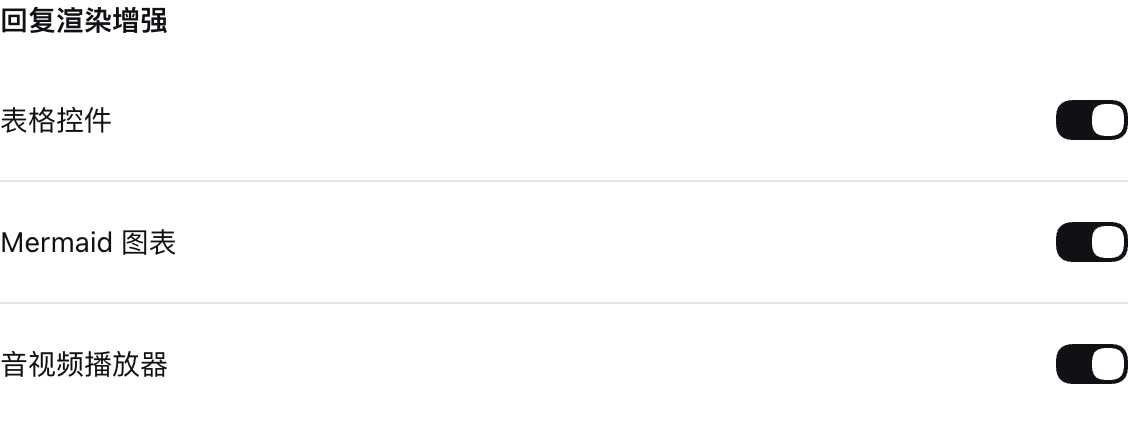
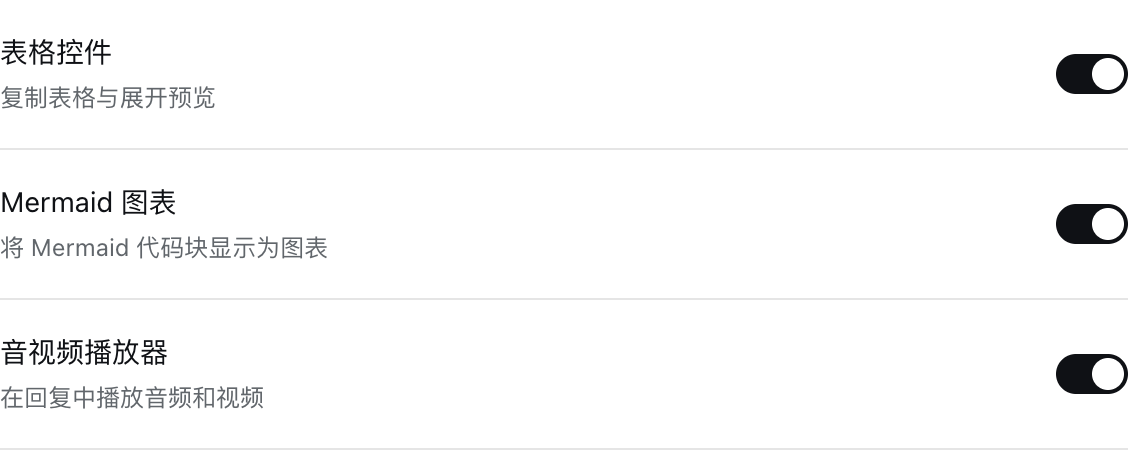
fix: 统一回复渲染组件与 DSH 原生样式
设置项采用默认行布局和原生 Switch，工具栏与预览复用 Button、Tooltip、图标及 Modal。

简化图表与媒体卡片，支持外观切换，并更新真实截图与宿主校验。

diff --git a/src/styles.css b/src/styles.css
@@ -1,4 +1,61 @@
-.dcr-source{min-width:0}.dcr-native-hidden{display:none!important}.dcr-source .dcr-table-owner{position:relative;padding-top:28px}.dcr-source .dcr-table-owner>table{width:100%;font-variant-numeric:tabular-nums}.dcr-source .dcr-table-owner th,.dcr-source .dcr-table-owner td{padding:10px 24px 10px 0;border-bottom:1px solid var(--dsw-alias-border-l2, #e6e6e8);text-align:start}.dcr-source .dcr-table-owner th{font-weight:600}.dcr-table-tools{position:absolute;right:0;top:0;display:flex;gap:4px;opacity:0;transition:opacity .15s ease}.dcr-table-owner:hover .dcr-table-tools,.dcr-table-owner:focus-within .dcr-table-tools{opacity:1}.dcr-action{position:relative;border:0;background:transparent;color:var(--dsw-alias-label-secondary,#85878a);width:32px;height:32px;display:inline-flex;align-items:center;justify-content:center;border-radius:50%;cursor:pointer;padding:0;transition:background .15s ease,color .15s ease}.dcr-action:hover{background:var(--dsw-alias-interactive-bg-hover,#f0f0f1);color:var(--dsw-alias-label-primary,#212225)}.dcr-action:disabled{opacity:.35;cursor:default}.dcr-action:focus-visible,.dcr-play:focus-visible{outline:2px solid #3478fa;outline-offset:2px}.dcr-actions{display:flex;gap:4px;align-items:center}.dcr-dialog{background:var(--dsw-alias-bg-layer-2,#fff);color:var(--dsw-alias-label-primary,#212225);border:1px solid var(--dsw-alias-border-l2,#ddd);border-radius:16px;width:min(1000px,86vw);max-width:94vw;max-height:88vh;padding:22px;box-shadow:0 20px 60px #0003;overflow:hidden;animation:dcr-open .18s cubic-bezier(.2,.8,.2,1)}.dcr-dialog::backdrop{background:#0003;animation:dcr-fade .18s ease}.dcr-dialog.dcr-closing{animation:dcr-close .16s ease forwards}.dcr-dialog.dcr-closing::backdrop{animation:dcr-fade .16s ease reverse forwards}.dcr-dialog>header,.dcr-mermaid>header,.dcr-media>header{display:flex;align-items:center;justify-content:space-between;gap:12px}.dcr-dialog>header{font:600 14px/24px -apple-system,BlinkMacSystemFont,sans-serif;padding-bottom:14px}.dcr-dialog-body{max-height:calc(88vh - 110px);overflow:auto;overscroll-behavior:contain}.dcr-preview-table{width:max-content;min-width:100%;border-collapse:collapse;font-size:14px;line-height:24px}.dcr-preview-table td,.dcr-preview-table th{padding:10px 28px 10px 0;border-bottom:1px solid var(--dsw-alias-border-l2,#ddd);vertical-align:top;white-space:normal;min-width:120px}.dcr-preview-table th{position:sticky;top:0;background:var(--dsw-alias-bg-layer-2,#fff);font-weight:600;z-index:1;text-align:start}.dcr-preview-table button{cursor:pointer}.dcr-mermaid{border:1px solid var(--dsw-alias-border-l2,#e1e1e4);border-radius:12px;overflow:hidden;margin:8px 0;background:var(--dsw-alias-bg-layer-2,#fff);color:var(--dsw-alias-label-primary,#222)}.dcr-mermaid>header{padding:9px 12px 9px 16px;color:var(--dsw-alias-label-secondary,#73767b);font-size:12px;border-bottom:1px solid var(--dsw-alias-border-l2,#e7e7e9)}.dcr-render-work{position:absolute;left:-100000px;top:0;pointer-events:none;visibility:hidden}.dcr-diagram{display:flex;justify-content:center;align-items:center;padding:24px;overflow:auto;min-height:130px}.dcr-diagram svg{max-width:100%;height:auto}.dcr-diagram-expanded svg{max-width:none;min-width:600px}.dcr-mermaid pre{background:var(--dsw-alias-interactive-bg-hover,#f7f7f8);padding:16px;margin:0;font:12px/22px ui-monospace,SFMono-Regular,monospace;white-space:pre-wrap}.dcr-zoom{font-size:12px;color:var(--dsw-alias-label-secondary,#888);min-width:44px;text-align:center}.dcr-status{padding:12px 16px;margin:0;font-size:12px;line-height:20px;color:var(--dsw-alias-label-secondary,#73767b)}.dcr-media{width:100%;max-width:512px;border:1px solid var(--dsw-alias-border-l2,#e1e1e4);border-radius:16px;padding:16px;margin:12px 0;background:var(--dsw-alias-bg-layer-2,#fff);color:var(--dsw-alias-label-primary,#222);font:14px/22px -apple-system,BlinkMacSystemFont,sans-serif}.dcr-media header strong{display:block;font-size:13px;font-weight:500;overflow-wrap:anywhere}.dcr-media small{display:block;font-size:11px;color:var(--dsw-alias-label-secondary,#85878a)}.dcr-audio-controls{display:flex;align-items:center;gap:12px;margin:15px 0 8px}.dcr-play{width:34px;height:34px;flex:0 0 34px;background:var(--dsw-alias-label-primary,#202124);color:var(--dsw-alias-bg-layer-2,#fff);border:0;border-radius:50%;display:flex;align-items:center;justify-content:center;cursor:pointer}.dcr-audio-controls input{accent-color:var(--dsw-alias-label-primary,#222);min-width:30px;flex:1;cursor:pointer;height:4px}.dcr-audio-controls input:disabled{cursor:default;opacity:.45}.dcr-time{color:var(--dsw-alias-label-secondary,#85878a);font-size:11px;font-variant-numeric:tabular-nums;white-space:nowrap}.dcr-media-original{font-size:11px!important;color:var(--dsw-alias-label-secondary,#85878a)!important;text-decoration:none!important;cursor:pointer}.dcr-media-original:hover{text-decoration:underline!important}.dcr-media video{display:block;width:100%;max-height:420px;border-radius:8px;background:#17181b;margin:14px 0 9px}.dcr-settings{margin:24px 0;color:var(--dsw-alias-label-primary,#222)}.dcr-settings h3{font-size:14px;font-weight:600;margin:0 0 10px}.dcr-setting-row{display:flex;justify-content:space-between;align-items:center;min-height:60px;border-bottom:1px solid var(--dsw-alias-border-l2,#e8e8eb);font-size:14px}.dcr-setting-row:last-of-type{border:0}.dcr-switch{width:36px;height:20px;border:0;padding:2px;border-radius:12px;cursor:pointer;background:#bdbec3;transition:background .15s ease}.dcr-switch[aria-checked=true]{background:var(--dsw-alias-label-primary,#151619)}.dcr-switch>span{display:block;width:16px;height:16px;border-radius:50%;background:var(--dsw-alias-bg-layer-2,#fff);transition:transform .15s ease}.dcr-switch[aria-checked=true]>span{transform:translateX(16px)}.dcr-settings-error{font-size:12px;color:#b33}@keyframes dcr-open{from{opacity:0;transform:translateY(5px) scale(.98)}to{opacity:1;transform:none}}@keyframes dcr-close{to{opacity:0;transform:translateY(4px) scale(.98)}}@keyframes dcr-fade{from{opacity:0}to{opacity:1}}@media(hover:none){.dcr-table-tools{opacity:1}}@media(prefers-reduced-motion:reduce){.dcr-dialog,.dcr-dialog::backdrop,.dcr-action,.dcr-table-tools,.dcr-switch,.dcr-switch>span{animation:none!important;transition:none!important}}
+/* Reply content stays in DSH's native Markdown layout. */
+.dcr-source { min-width: 0; }
+.dcr-native-hidden { display: none !important; }
+.dcr-table-owner { position: relative; padding-top: 24px; }
+.dcr-table-tools { position: absolute; top: 0; right: 0; display: flex; gap: 2px; opacity: 0; transition: opacity var(--ds-transition-duration, 150ms); }
+.dcr-table-owner:hover .dcr-table-tools,
+.dcr-table-owner:focus-within .dcr-table-tools { opacity: 1; }
+.dcr-action { width: 28px; min-width: 28px; padding: 0; flex: none; color: var(--dsw-alias-label-secondary); }
+.dcr-actions { display: flex; align-items: center; gap: 2px; flex: none; }
 
-.dcr-action::after{content:attr(aria-label);position:absolute;bottom:calc(100% + 6px);left:50%;transform:translateX(-50%);background:#202123;color:#fff;border-radius:8px;padding:5px 9px;font:12px/18px -apple-system,BlinkMacSystemFont,sans-serif;white-space:nowrap;pointer-events:none;opacity:0;transition:opacity .12s ease;z-index:4;box-shadow:0 4px 16px #0002}.dcr-action:hover::after,.dcr-action:focus-visible::after{opacity:1;transition-delay:.4s}.dcr-action:disabled::after{display:none}@media(hover:none){.dcr-action::after{display:none}}
-.dcr-source .dcr-table-owner [align=center],.dcr-preview-table [align=center]{text-align:center}.dcr-source .dcr-table-owner [align=right],.dcr-preview-table [align=right]{text-align:right}
+/* Only size the native Modal; its chrome, mask and focus handling remain native. */
+.dcr-dialog { width: min(960px, calc(100vw - 48px)); max-height: 100%; }
+.dcr-preview-actions { position: absolute; top: 22px; right: 48px; }
+.dcr-dialog-body { min-height: 0; max-height: min(70vh, 680px); overflow: auto; overscroll-behavior: contain; }
+.dcr-dialog.dcr-closing { animation: dcr-close 160ms var(--ds-ease-in-out, ease) forwards; }
+.dcr-preview-table { width: max-content; min-width: 100%; border-collapse: collapse; font: var(--dsw-font-markdown-body, 14px/24px var(--dsw-font-family)); }
+.dcr-preview-table th,
+.dcr-preview-table td { padding: 10px 24px 10px 0; border-bottom: .5px solid var(--dsw-alias-border-l2); vertical-align: top; }
+.dcr-preview-table th { position: sticky; top: 0; z-index: 1; background: var(--dsw-alias-bg-layer-2); font-weight: 500; text-align: start; }
+.dcr-preview-table [align=center] { text-align: center; }
+.dcr-preview-table [align=right] { text-align: right; }
+.dcr-preview-table button { cursor: pointer; }
+
+/* Graphs and media use the same quiet surface as DSH's code cards. */
+.dcr-mermaid,
+.dcr-media { border: 0; border-radius: var(--dsw-radius-lg, 12px); background: var(--dsw-alias-markdown-code-block); color: var(--dsw-alias-label-primary); font-family: var(--dsw-font-family); }
+.dcr-mermaid { margin: 8px 0; overflow: hidden; }
+.dcr-mermaid > header,
+.dcr-media > header { display: flex; align-items: center; justify-content: space-between; gap: 12px; }
+.dcr-mermaid > header { padding: 8px 12px 4px 18px; color: var(--dsw-alias-label-tertiary); font: 11px/18px var(--dsw-font-family); }
+.dcr-render-work { position: absolute; left: -100000px; top: 0; visibility: hidden; pointer-events: none; }
+.dcr-diagram { display: flex; align-items: center; justify-content: center; padding: 16px 20px 20px; overflow: auto; min-height: 100px; }
+.dcr-diagram .node rect,
+.dcr-diagram .node polygon { filter: none !important; }
+.dcr-diagram .node rect { rx: 6px; ry: 6px; }
+.dcr-diagram svg { max-width: 100%; max-height: 340px; width: auto; height: auto; }
+.dcr-diagram-expanded { padding: 16px 0; }
+.dcr-diagram-expanded svg { max-height: none; }
+.dcr-mermaid pre { margin: 0; padding: 8px 20px 20px; font: var(--dsw-font-markdown-code-block); white-space: pre-wrap; }
+.dcr-zoom { min-width: 40px; text-align: center; color: var(--dsw-alias-label-secondary); font: 11px/18px var(--dsw-font-family); }
+.dcr-status { margin: 0; padding: 8px 0; color: var(--dsw-alias-label-secondary); font: 12px/18px var(--dsw-font-family); }
+.dcr-mermaid .dcr-status { padding: 12px 20px; }
+.dcr-media { width: 100%; max-width: 512px; padding: 14px 16px; margin: 12px 0; }
+.dcr-media-name { min-width: 0; }
+.dcr-media-name > span { display: block; overflow-wrap: anywhere; font: 14px/20px var(--dsw-font-family); }
+.dcr-media-name > small { display: block; margin-top: 2px; color: var(--dsw-alias-label-tertiary); font: 11px/18px var(--dsw-font-family); }
+.dcr-audio-controls { display: flex; align-items: center; gap: 10px; margin-top: 8px; }
+.dcr-time { color: var(--dsw-alias-label-secondary); font: 11px/18px var(--dsw-font-family); font-variant-numeric: tabular-nums; white-space: nowrap; }
+.dcr-audio-controls input { appearance: none; flex: 1; min-width: 30px; height: 4px; margin: 0; border: 0; border-radius: var(--dsw-radius-pill, 999px); background: linear-gradient(to right, var(--dsw-alias-state-business-primary) var(--dcr-progress), var(--dsw-alias-border-l2) var(--dcr-progress)); cursor: pointer; }
+.dcr-audio-controls input::-webkit-slider-thumb { appearance: none; width: 10px; height: 10px; border: 0; border-radius: 50%; background: var(--dsw-alias-state-business-primary); }
+.dcr-audio-controls input:focus-visible { outline: 1px solid var(--dsw-alias-state-business-primary); outline-offset: 4px; }
+.dcr-audio-controls input:disabled { opacity: .4; cursor: default; }
+.dcr-media video { display: block; width: 100%; max-height: 420px; margin-top: 10px; border-radius: var(--dsw-radius-sm, 8px); background: #17181b; }
+
+/* Match General Settings' native DeveloperToolsRow geometry. */
+.dcr-setting-row { display: flex; justify-content: space-between; align-items: center; gap: 24px; padding: 16px 0; border-bottom: .5px solid var(--dsw-alias-border-l2); }
+.dcr-setting-title { font-size: 14px; line-height: 20px; font-weight: 400; }
+.dcr-setting-description { margin-top: 4px; color: var(--dsw-alias-label-secondary); font-size: 12px; line-height: 18px; }
+@keyframes dcr-close { to { opacity: 0; } }
+@media (hover: none) { .dcr-table-tools { opacity: 1; } }
+@media (prefers-reduced-motion: reduce) { .dcr-closing { animation: none !important; } .dcr-table-tools { transition: none; } }

diff --git a/src/components.jsx b/src/components.jsx
@@ -1,14 +1,15 @@
 import React,{useState,useEffect,useLayoutEffect,useRef} from 'react';
-import {createPortal} from 'react-dom';
+import {Button,Tooltip,Modal as DshModal,IconCopyOutlineRegular,IconFullscreenOutlineRegular,IconCloseOutlineRegular,IconCheckOutlineRegular,IconDownloadOutlineRegular,IconCodeOutlineRegular,IconPlayOutlineRegular,IconPauseOutlineRegular,IconPlusOutlineRegular,IconRightUpOutlineRegular} from '@deepseek-ai/dsh-client-ui-primitives';
 import {tableClipboard} from './core.js';
 
 export function Icon({name}) {
-  const paths={copy:<><rect x="8" y="8" width="12" height="12" rx="3"/><path d="M16 8V5a3 3 0 0 0-3-3H5a3 3 0 0 0-3 3v8a3 3 0 0 0 3 3h3"/></>,expand:<><path d="M14 3h7v7M21 3l-7 7M10 21H3v-7M3 21l7-7"/></>,close:<path d="m6 6 12 12M18 6 6 18"/>,check:<path d="m4 12 5 5L20 6"/>,download:<><path d="M12 3v12m-5-5 5 5 5-5M4 16v5h16v-5"/></>,code:<path d="m8 6-6 6 6 6m8-12 6 6-6 6M14 3l-4 18"/>,play:<path d="m8 4 13 8-13 8Z"/>,pause:<><path d="M8 4v16M16 4v16"/></>,minus:<path d="M5 12h14"/>,plus:<path d="M5 12h14M12 5v14"/>};
-  return <svg width="18" height="18" viewBox="0 0 24 24" fill="none" stroke="currentColor" strokeWidth="1.7" strokeLinecap="round" strokeLinejoin="round" aria-hidden="true">{paths[name]}</svg>;
+  const Native={copy:IconCopyOutlineRegular,expand:IconFullscreenOutlineRegular,close:IconCloseOutlineRegular,check:IconCheckOutlineRegular,download:IconDownloadOutlineRegular,code:IconCodeOutlineRegular,play:IconPlayOutlineRegular,pause:IconPauseOutlineRegular,plus:IconPlusOutlineRegular,external:IconRightUpOutlineRegular}[name];
+  if(Native)return <Native size={16}/>;
+  return <svg width="16" height="16" viewBox="0 0 16 16" fill="none" stroke="currentColor" strokeWidth="1" strokeLinecap="round" aria-hidden="true"><path d="M4 8h8"/></svg>;
 }
 
 export function Action({label,icon,onClick,disabled=false,pressed}) {
-  return <button type="button" className="dcr-action" aria-label={label} aria-pressed={pressed} onClick={onClick} disabled={disabled}><Icon name={icon}/></button>;
+  return <Tooltip label={label} side="top" delayMs={350} portal disabled={disabled}><Button variant="ghost" size="sm" className="dcr-action" aria-label={label} aria-pressed={pressed} onClick={onClick} disabled={disabled}><Icon name={icon}/></Button></Tooltip>;
 }
 
 export function Copy({getValue,label='复制'}) {
@@ -28,13 +29,12 @@ export function Copy({getValue,label='复制'}) {
 }
 
 export function Modal({title,children,actions,onClose}) {
-  const dialog=useRef(),timer=useRef(),[closing,setClosing]=useState(false);
-  useLayoutEffect(()=>{const element=dialog.current;element.showModal();return()=>{clearTimeout(timer.current);element.close();};},[]);
+  const timer=useRef(),[closing,setClosing]=useState(false);
+  useEffect(()=>()=>clearTimeout(timer.current),[]);
   const close=()=>{if(closing)return;setClosing(true);timer.current=setTimeout(onClose,matchMedia('(prefers-reduced-motion: reduce)').matches?0:160);};
-  return createPortal(<dialog ref={dialog} className={`dcr-dialog${closing?' dcr-closing':''}`} aria-label={title} onCancel={e=>{e.preventDefault();close();}} onClick={e=>{if(e.target===dialog.current)close();}}>
-    <header><span>{title}</span><div className="dcr-actions">{actions}<Action label="关闭预览" icon="close" onClick={close}/></div></header>
-    <div className="dcr-dialog-body">{children}</div>
-  </dialog>,document.body);
+  return <DshModal open onClose={close} title={title} closeLabel="关闭预览" className={`dcr-dialog${closing?' dcr-closing':''}`}>
+    <div className="dcr-preview-actions dcr-actions">{actions}</div><div className="dcr-dialog-body">{children}</div>
+  </DshModal>;
 }
 
 function TablePreview({table}) {
@@ -61,19 +61,28 @@ function saveBlob(blob,name) {
 }
 
 export function MermaidCard({code}) {
-  const [svg,setSvg]=useState(''),[error,setError]=useState(''),[source,setSource]=useState(false),[expanded,setExpanded]=useState(false),[zoom,setZoom]=useState(1),holder=useRef();
+  const [svg,setSvg]=useState(''),[error,setError]=useState(''),[source,setSource]=useState(false),[expanded,setExpanded]=useState(false),[zoom,setZoom]=useState(1),[palette,setPalette]=useState(null),holder=useRef();
+  useLayoutEffect(()=>{
+    let previous='';
+    const read=()=>{const style=getComputedStyle(holder.current),token=name=>style.getPropertyValue(name).trim(),next={fontFamily:style.fontFamily,fontSize:'14px',primaryColor:token('--dsw-alias-bg-layer-2'),primaryTextColor:token('--dsw-alias-label-primary'),primaryBorderColor:token('--dsw-alias-border-l2'),lineColor:token('--dsw-alias-label-secondary'),edgeLabelBackground:token('--dsw-alias-markdown-code-block')},key=JSON.stringify(next);if(key!==previous){previous=key;setPalette(next);}};
+    read();
+    const observer=new MutationObserver(read);observer.observe(document.documentElement,{attributes:true});observer.observe(document.body,{attributes:true});
+    const scheme=matchMedia('(prefers-color-scheme: dark)');scheme.addEventListener('change',read);
+    return()=>{observer.disconnect();scheme.removeEventListener('change',read);};
+  },[]);
   useEffect(()=>{
+    if(!palette)return;
     let live=true;setSvg('');setError('');
     (async()=>{
       try {
         const {default:mermaid}=await import('mermaid');
-        mermaid.initialize({startOnLoad:false,securityLevel:'strict',suppressErrorRendering:true,theme:matchMedia('(prefers-color-scheme: dark)').matches?'dark':'neutral',fontFamily:getComputedStyle(document.body).fontFamily,flowchart:{htmlLabels:false}});
+        mermaid.initialize({startOnLoad:false,securityLevel:'strict',suppressErrorRendering:true,htmlLabels:false,theme:'base',fontFamily:palette.fontFamily,themeVariables:palette,flowchart:{htmlLabels:false,curve:'basis'}});
         const result=await mermaid.render(`dcr-${crypto.randomUUID()}`,code,holder.current);
         if(live)setSvg(result.svg);
       } catch(e) {if(live)setError('图表无法渲染，请检查 Mermaid 语法。');}
     })();
     return()=>{live=false;};
-  },[code]);
+  },[code,palette]);
   const actions=<><Copy label="复制 Mermaid 源码" getValue={()=>code}/><Action label="显示源码" icon="code" pressed={source} onClick={()=>setSource(!source)}/><Action label="下载 SVG" icon="download" disabled={!svg} onClick={()=>saveBlob(new Blob([svg],{type:'image/svg+xml'}),'diagram.svg')}/><Action label="展开图表" icon="expand" disabled={!svg} onClick={()=>{setZoom(1);setExpanded(true);}}/></>;
   return <div className="dcr-mermaid" aria-label="Mermaid 图表">
     <header><span>Mermaid</span><div className="dcr-actions">{actions}</div></header>
@@ -91,8 +100,8 @@ export function MediaCard({item}) {
   const download=async()=>{try{const response=await fetch(item.src);if(!response.ok)throw Error();saveBlob(await response.blob(),decodeURIComponent(item.url.split(/[?#]/)[0].split('/').pop())||`${item.kind}.bin`);}catch{setError('下载失败，可通过原始文件链接打开。');}};
   const common={src:item.src,preload:'metadata',onError:()=>setError('无法播放此文件，可通过原始文件链接打开。'),onLoadedMetadata:e=>{const value=e.currentTarget.duration;setDuration(Number.isFinite(value)?value:0);},onTimeUpdate:e=>setPosition(e.currentTarget.currentTime),onPlay:()=>setPlaying(true),onPause:()=>setPlaying(false),onEnded:()=>setPlaying(false)};
   return <section className={`dcr-media dcr-${item.kind}`} aria-label={`${item.kind==='audio'?'音频':'视频'}播放器`}>
-    <header><div><strong>{name}</strong><small>{item.kind==='audio'?'Audio':'Video'}</small></div><Action label="下载媒体" icon="download" onClick={download}/></header>
-    {item.kind==='video'?<video ref={player} controls playsInline {...common}/>:<><audio ref={player} {...common}/><div className="dcr-audio-controls"><button type="button" className="dcr-play" aria-label={playing?'暂停音频':'播放音频'} onClick={async()=>{try{if(playing)player.current.pause();else await player.current.play();}catch{setError('无法播放此文件，可通过原始文件链接打开。');}}}><Icon name={playing?'pause':'play'}/></button><input type="range" min="0" max={duration||1} step=".01" value={Math.min(position,duration||1)} disabled={!duration} aria-label="音频进度" aria-valuetext={`${time(position)} / ${time(duration)}`} onChange={e=>{const value=Number(e.target.value);player.current.currentTime=value;setPosition(value);}}/><span className="dcr-time">{time(position)} / {time(duration)}</span></div></>}
-    {error&&<p className="dcr-status" role="status">{error}</p>}<a className="dcr-media-original" href={item.src} target="_blank" rel="noopener noreferrer">打开原始文件</a>
+    <header><div className="dcr-media-name"><span>{name}</span><small>{item.kind==='audio'?'音频':'视频'}</small></div><div className="dcr-actions"><Action label="打开原始文件" icon="external" onClick={()=>window.open(item.src,'_blank','noopener,noreferrer')}/><Action label="下载媒体" icon="download" onClick={download}/></div></header>
+    {item.kind==='video'?<video ref={player} controls playsInline {...common}/>:<><audio ref={player} {...common}/><div className="dcr-audio-controls"><Action label={playing?'暂停音频':'播放音频'} icon={playing?'pause':'play'} onClick={async()=>{try{if(playing)player.current.pause();else await player.current.play();}catch{setError('无法播放此文件，可通过原始文件链接打开。');}}}/><input type="range" min="0" max={duration||1} step=".01" value={Math.min(position,duration||1)} disabled={!duration} style={{'--dcr-progress':`${duration?position/duration*100:0}%`}} aria-label="音频进度" aria-valuetext={`${time(position)} / ${time(duration)}`} onChange={e=>{const value=Number(e.target.value);player.current.currentTime=value;setPosition(value);}}/><span className="dcr-time">{time(position)} / {time(duration)}</span></div></>}
+    {error&&<p className="dcr-status" role="status">{error}</p>}
   </section>;
 }

diff --git a/src/client.jsx b/src/client.jsx
@@ -1,14 +1,24 @@
 import React,{useState,useRef,useLayoutEffect,useSyncExternalStore} from 'react';
 import {createPortal} from 'react-dom';
+import {Switch} from '@deepseek-ai/dsh-client-ui-primitives';
 import {contentWidgets,mediaURL,createPreferences,PREFERENCE_KEY} from './core.js';
 import {TableTools,MermaidCard,MediaCard} from './components.jsx';
 import css from './styles.css';
 
 export const inject = ['slots'];
 
-function Settings({preferences}) {
+const SETTINGS=[
+  ['tables','表格控件','复制表格与展开预览'],
+  ['mermaid','Mermaid 图表','将 Mermaid 代码块显示为图表'],
+  ['media','音视频播放器','在回复中播放音频和视频'],
+];
+
+function SettingsRow({preferences,setting:[key,label,description]}) {
   const values=useSyncExternalStore(preferences.subscribe,preferences.getSnapshot),[error,setError]=useState('');
-  return <section className="dcr-settings" aria-label="回复渲染增强"><h3>回复渲染增强</h3>{[['tables','表格控件'],['mermaid','Mermaid 图表'],['media','音视频播放器']].map(([key,label])=><div className="dcr-setting-row" key={key}><span>{label}</span><button type="button" className="dcr-switch" role="switch" aria-label={label} aria-checked={values[key]} onClick={()=>{try{preferences.update({[key]:!values[key]});setError('');}catch(e){setError('设置未保存：'+e.message);}}}><span/></button></div>)}{error&&<p className="dcr-settings-error" role="alert">{error}</p>}</section>;
+  return <div className="dcr-settings dcr-setting-row">
+    <div><div className="dcr-setting-title">{label}</div><div className="dcr-setting-description">{description}</div>{error&&<div role="alert">{error}</div>}</div>
+    <Switch label={label} checked={values[key]} onChange={next=>{try{preferences.update({[key]:next});setError('');}catch(e){setError('设置未保存：'+e.message);}}}/>
+  </div>;
 }
 
 function EnhancedReply({inner:Inner,preferences,...props}) {
@@ -75,7 +85,10 @@ export function apply(ctx) {
   const preferences=createPreferences(localStorage);
   const reload=event=>{if(event.key===PREFERENCE_KEY||event.key===null)preferences.reload();};
   window.addEventListener('storage',reload);ctx.effect(()=>()=>window.removeEventListener('storage',reload));
-  ctx.slots.inject('settings.general.item',()=>ctx.slots.register({name:'settings.general.item',id:'codex-renderer',order:21},()=> <Settings preferences={preferences}/>));
+  ctx.slots.inject('settings.general.item',()=>{
+    const releases=SETTINGS.map((setting,index)=>ctx.slots.register({name:'settings.general.item',id:`codex-renderer-${setting[0]}`,order:21+index/10},()=> <SettingsRow preferences={preferences} setting={setting}/>));
+    return()=>{for(const release of releases.reverse())release();};
+  });
   const name='conversation.chat.node',decorated=new WeakSet(),registrations=new Map();
   const decorate=()=>{
     const entries=ctx.slots.entries(name);

diff --git a/README.md b/README.md
@@ -1,6 +1,6 @@
 # DSH Codex Renderer
 
-为 DeepSeek Harness 增加 Codex 风格的表格、Mermaid 图表与音视频播放器。
+为 DeepSeek Harness 增加表格、Mermaid 图表与音视频播放器，结合 Codex 的操作方式和 DSH 原生组件样式。
 
 ## 功能
 
@@ -50,14 +50,14 @@ npm pack
 安装到桌面端：
 
 ```sh
-dsh plugin --profile desktop add "$PWD/deepseekharness-plugin-dsh-codex-renderer-0.1.0.tgz"
+dsh plugin --profile desktop add "$PWD/deepseekharness-plugin-dsh-codex-renderer-0.1.1.tgz"
 ```
 
 然后在 DSH 的「插件」页面确认 `@deepseekharness-plugin/dsh-codex-renderer` 已启用。
 
 ## 设置
 
-在「设置 → 通用设置 → 回复渲染增强」中，分别开启或关闭表格控件、Mermaid 图表和音视频播放器。
+在「设置 → 通用设置」中，分别开启或关闭「表格控件」「Mermaid 图表」和「音视频播放器」。这三项使用 DSH 原生开关与默认设置行布局。
 
 ![设置](assets/settings.png)
 
